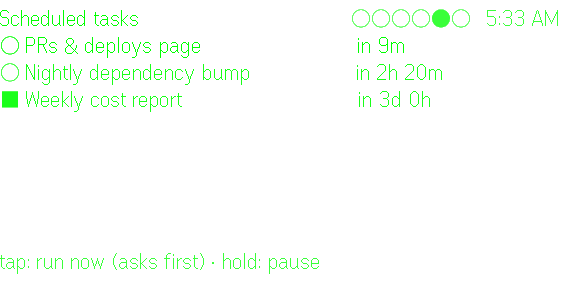
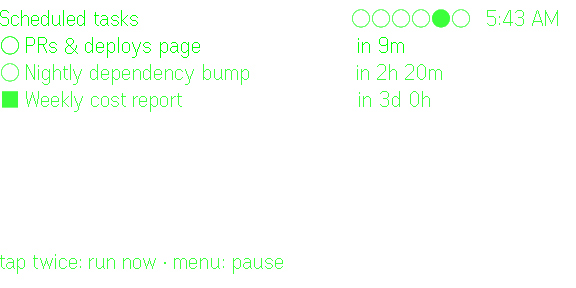
Review fixes: menu limits, safer gestures, lighter limit reads
- Menu labels cut to the firmware's 32 bytes and 10 items (a long page title rejected the whole page)
- Hold no longer denies approvals or pauses tasks: tap-then-hold opens the menu, so hold must not act.
  Allow, Deny, Pause and Resume are menu items; a first tap's arming expires after 6 seconds
- Alerts no longer swallow taps; the menu offers to open what an alert is about
- Limits are read from the config stream instead of asking the server to re-probe every provider
- Dashboard follows threads that are waiting on you, so approvals can be answered from it
- Stop following list threads when leaving the list; alerts cover unpinned threads too
- Unchosen lines dim when a page has a choice, so the highlight is visible
- SVG rendering failures no longer leave an unhandled rejection
- Docs: gestures table, voice cancel flow

diff --git a/src/glasses/controller.ts b/src/glasses/controller.ts
@@ -68,6 +68,24 @@ const MAX_TEXT_BOXES = 7
 /** Dropped first, if a page would have too many: the scrollbar, then the clock, then the dim layer. */
 const SHED_ORDER: Slot[] = ['thumb', 'bar', 'clock', 'prompt']
 const IMAGE_ID = 11
+
+const encoder = new TextEncoder()
+/** A menu label within the firmware's 32 UTF-8 bytes, cut on a character boundary. */
+export function menuLabel(name: string): string {
+  const clean = name.replace(/\s+/g, ' ').trim() || '·'
+  if (encoder.encode(clean).length <= 32) return clean
+  let out = ''
+  for (const char of clean) {
+    if (encoder.encode(`${out}${char}…`).length > 32) break
+    out += char
+  }
+  return `${out.trimEnd()}…`
+}
+/** How long a first tap stays armed, waiting for the second. */
+const ARM_MS = 6_000
+const MENU_ALLOW = 12
+const MENU_DENY = 13
+const MENU_OPEN_ALERT = 14
 const IMAGE_NAME = 'image'
 
 /** A picture on a page: a PNG for the glasses' image container. */
@@ -130,7 +148,15 @@ export class GlassesController {
   private pageCursor = 0
   /** A limit whose reset credit is waiting for a second tap to confirm. */
   /** Something waiting for a second tap to confirm: a reset credit, an approval, a task run. */
-  private armed: { kind: 'reset' | 'allow' | 'task'; key: string } | null = null
+  private armedState: { kind: 'reset' | 'allow' | 'task'; key: string; until: number } | null = null
+  /** A first tap waiting for the second, until it expires (so a stray tap minutes later cannot confirm it). */
+  private get armed(): { kind: 'reset' | 'allow' | 'task'; key: string } | null {
+    if (this.armedState && Date.now() > this.armedState.until) this.armedState = null
+    return this.armedState
+  }
+  private set armed(value: { kind: 'reset' | 'allow' | 'task'; key: string } | null) {
+    this.armedState = value ? { ...value, until: Date.now() + ARM_MS } : null
+  }
   /** The provider whose accounts the Usage page is listing; null is the overview. */
   private usageDriver: string | null = null
   private pageImage: { key: string; png: RenderedImage | null } | null = null
@@ -246,6 +272,11 @@ export class GlassesController {
   private draw(nextLayout: string, nextBoxes: Box[], menu?: Array<[number, string]>, image?: ImageSlot): Promise<void> {
     // Only the newest frame matters: a frame queued behind a slow BLE update is dropped rather than
     // painted late over a newer screen.
+    // The firmware takes at most 10 menu items of 32 bytes each, and rejects the whole page otherwise.
+    if (menu) {
+      const ids = new Set<number>()
+      menu = menu.filter(([id]) => (ids.has(id) ? false : (ids.add(id), true))).slice(0, 10).map(([id, name]) => [id, menuLabel(name)])
+    }
     // The menu and picture are only applied when the page is rebuilt, so a change to either is a new layout.
     const signature = `${nextLayout}|${menu ? menu.map(([id, name]) => `${id}=${name}`).join(',') : ''}|${image?.key ?? ''}`
     // Past the container limit the firmware rejects the whole page and keeps showing the old one, so
@@ -401,7 +432,7 @@ export class GlassesController {
       { slot: 'body', x: 0, y: rowY(1), w: width, h: rowsH(LIST_ROWS), text: dim, brightness: 1 },
       { slot: 'selected', x: 0, y: rowY(1), w: width, h: rowsH(LIST_ROWS), text: bright, brightness: BRIGHT },
       ...(bar.thumb ? this.barBoxes(bar, rowY(1), rowsH(LIST_ROWS)) : []),
-    ], [...this.pageMenu(), [MENU_JUMP_TOP, 'Jump to top'], [MENU_NEW_PAGE, 'New page by voice']])
+    ], [...this.alertMenu(), ...this.pageMenu(), [MENU_JUMP_TOP, 'Jump to top'], [MENU_NEW_PAGE, 'New page by voice']])
   }
 
   // --- pages -------------------------------------------------------------------------------
@@ -448,8 +479,14 @@ export class GlassesController {
     return this.pages.slice(0, 6).map((page, i) => [MENU_PAGE + i, `${page === this.page ? '● ' : ''}${this.pageLabel(page)}`])
   }
 
+  /** Stops following the threads a list or the dashboard was showing; the next page says what it needs. */
+  private unwatchAll() {
+    for (const m of this.fleet.state.machines) this.fleet.machine(m.id)?.watch([], { activity: false, reply: false })
+  }
+
   private switchPage(page: Page) {
     if (!this.pages.includes(page)) return
+    this.unwatchAll()
     this.page = page
     this.cursorKey = 'new'
     this.listTop = 0
@@ -507,7 +544,8 @@ export class GlassesController {
     const hasDim = !foldDim && lines.some(l => l.dim)
     return this.draw(`page:${kind}:${bar.thumb ? 'bar' : 'nobar'}:${choosable ? 'sel' : 'view'}:${hasDim ? 'dim' : 'flat'}:${head.key}`, [
       ...head.boxes,
-      { slot: 'body', x: 0, y: rowY(1), w: width, h: rowsH(PAGE_ROWS), text: layer(l => !chosen(l) && (foldDim || !l.dim)), brightness: MID },
+      // With a choice on the page, everything else steps down so the highlighted line stands out.
+      { slot: 'body', x: 0, y: rowY(1), w: width, h: rowsH(PAGE_ROWS), text: layer(l => !chosen(l) && (foldDim || !l.dim)), brightness: choosable ? DIM : MID },
       ...(hasDim ? [{ slot: 'prompt' as const, x: 0, y: rowY(1), w: width, h: rowsH(PAGE_ROWS), text: layer(l => !chosen(l) && Boolean(l.dim)), brightness: 1 }] : []),
       ...(choosable ? [{ slot: 'selected' as const, x: 0, y: rowY(1), w: width, h: rowsH(PAGE_ROWS), text: layer(chosen), brightness: BRIGHT }] : []),
       ...(bar.thumb ? this.barBoxes(bar, rowY(1), rowsH(PAGE_ROWS)) : []),
@@ -562,12 +600,13 @@ export class GlassesController {
     const asking = selected ? input.threads.find(t => askKey(t) === selected) : undefined
     const request = asking ? input.request(asking) : null
     const status = this.armed?.kind === 'allow' && asking
-      ? { text: `tap again: allow · hold: deny · swipe: cancel`, brightness: BRIGHT }
+      ? { text: `tap again to allow · swipe: cancel · menu: deny`, brightness: BRIGHT }
       : this.notice ? this.pageNotice('')
-      : asking ? this.pageNotice(request?.kind === 'approval' ? 'tap: allow (asks first) · hold: deny' : 'tap: open and answer')
+      : asking ? this.pageNotice(request?.kind === 'approval' ? 'tap twice: allow · menu: deny' : 'tap: open and answer')
       : this.pageNotice('tap+hold: pages')
     // The summary ("★ 2 need you ▶ 1 running") is the header; the page needs no title.
-    return this.drawPage('dashboard', summary.text, lines, selected, status, [...this.pageMenu(), [MENU_REFRESH, 'Refresh']])
+    const actions: Array<[number, string]> = request?.kind === 'approval' ? [[MENU_ALLOW, 'Allow'], [MENU_DENY, 'Deny']] : []
+    return this.drawPage('dashboard', summary.text, lines, selected, status, [...this.alertMenu(), ...actions, ...this.pageMenu(), [MENU_REFRESH, 'Refresh']])
   }
 
   /** The thread on the dashboard's highlighted line, with what it is waiting on. */
@@ -590,12 +629,12 @@ export class GlassesController {
     await this.answerApproval(thread, request, machine, 'allow')
   }
 
-  /** Hold on an approval denies it, straight away: denying is always safe. */
-  private async holdDashboard() {
+  /** Allow or deny from the menu: an explicit choice, so no second tap. */
+  private async decideDashboard(which: 'allow' | 'deny') {
     const asked = this.askedThread()
     if (!asked || asked.request?.kind !== 'approval') return
     this.armed = null
-    await this.answerApproval(asked.thread, asked.request, asked.machine, 'deny')
+    await this.answerApproval(asked.thread, asked.request, asked.machine, which)
   }
 
   private async answerApproval(thread: PinnedThread, request: Extract<PendingRequest, { kind: 'approval' }>, machine: Machine | undefined, which: 'allow' | 'deny') {
@@ -622,7 +661,7 @@ export class GlassesController {
       : this.notice ? this.pageNotice('')
       : this.usageDriver ? this.pageNotice(account?.credits ? 'tap: use a reset credit · double tap: back' : 'swipe: accounts · double tap: back')
       : this.pageNotice(selected ? 'tap: see each account · swipe: next provider' : 'tap+hold: pages')
-    const menu: Array<[number, string]> = [...this.pageMenu(), [MENU_REFRESH, 'Refresh'], ...(this.usageDriver ? [[MENU_BACK, 'Back to overview'] as [number, string]] : [])]
+    const menu: Array<[number, string]> = [...this.alertMenu(), ...this.pageMenu(), [MENU_REFRESH, 'Refresh'], ...(this.usageDriver ? [[MENU_BACK, 'Back to overview'] as [number, string]] : [])]
     const title = this.usageDriver ? `${families(usageAccounts(machines)).find(f => f.driver === this.usageDriver)?.provider ?? 'Usage'} accounts` : 'Usage'
     return this.drawPage(`usage:${this.usageDriver ?? ''}`, title, lines, selected, status, menu)
   }
@@ -681,11 +720,12 @@ export class GlassesController {
     const status = this.armed?.kind === 'task' && chosen
       ? { text: `tap again: run "${chosen.task.title}" now · swipe: cancel`, brightness: BRIGHT }
       : this.notice ? this.pageNotice('')
-      : chosen ? this.pageNotice(chosen.task.enabled ? 'tap: run now (asks first) · hold: pause' : 'hold: resume')
+      : chosen ? this.pageNotice(chosen.task.enabled ? 'tap twice: run now · menu: pause' : 'paused · menu: resume')
       : this.pageNotice('tap+hold: pages')
     const menu: Array<[number, string]> = [
-      ...this.pageMenu(),
+      ...this.alertMenu(),
       ...(chosen ? [[MENU_TASK_RUN, 'Run now'], [MENU_TASK_PAUSE, chosen.task.enabled ? 'Pause' : 'Resume']] as Array<[number, string]> : []),
+      ...this.pageMenu(),
       [MENU_REFRESH, 'Refresh'],
     ]
     return this.drawPage('tasks', 'Scheduled tasks', lines, selected, status, menu)
@@ -694,7 +734,7 @@ export class GlassesController {
   private async tapTasks() {
     const chosen = this.selectedTask()
     if (!chosen) return
-    if (!chosen.task.enabled) return this.showNotice('Paused. Hold to resume it.', 3000)
+    if (!chosen.task.enabled) return this.showNotice('Paused. Resume it from the menu.', 3000)
     if (this.armed?.kind !== 'task' || this.armed.key !== chosen.key) { this.armed = { kind: 'task', key: chosen.key }; return void this.renderTasks() }
     this.armed = null
     await this.runSelectedTask()
@@ -759,7 +799,7 @@ export class GlassesController {
       : this.pageNotice([updated, 'hold: change this page'].filter(Boolean).join('   ·   '))
     const title = meta.title || thread?.title || 'Page'
     const slot: ImageSlot | undefined = image ? { key: image.key, x: FULL_W - BAR_W - 4 - image.w, y: rowY(1), w: image.w, h: image.h, png: image.png } : undefined
-    return this.drawPage(`tpage:${page}`, title, lines, null, status, [...this.pageMenu(), ...this.voiceMenu(), [MENU_PAGE_REFRESH, 'Update this page'], [MENU_NEW_PAGE, 'New page by voice']], slot)
+    return this.drawPage(`tpage:${page}`, title, lines, null, status, [...this.voiceMenu(), ...this.alertMenu(), [MENU_PAGE_REFRESH, 'Update this page'], ...this.pageMenu(), [MENU_NEW_PAGE, 'New page by voice']], slot)
   }
 
   /** The picture for a page's SVG: drawn once per distinct SVG, shown when ready. */
@@ -767,7 +807,8 @@ export class GlassesController {
     const key = hashText(svg)
     if (this.pageImage?.key === key) return this.pageImage.png ? { key, ...this.pageImage.png } : null
     this.pageImage = { key, png: null }
-    void renderSvgPng(svg).then(rendered => {
+    // A WebView that will not draw the SVG (or read the canvas back) just shows no picture.
+    void renderSvgPng(svg).catch(() => null).then(rendered => {
       if (this.pageImage?.key !== key) return
       this.pageImage = { key, png: rendered }
       if (rendered) this.scheduleRender()
@@ -843,6 +884,7 @@ export class GlassesController {
   private async open(thread: PinnedThread) {
     this.closeThreadStream()
     this.closePageStream()
+    this.unwatchAll()
     const machine = this.machineOf(thread)
     if (!machine) return
     this.current = thread
@@ -939,7 +981,7 @@ export class GlassesController {
       { slot: 'body', x: 0, y: rowY(1), w: TEXT_W, h: rowsH(rows), text: loading ? 'Loading…' : bottomAnchor(view.lines, rows) || 'No messages yet.', brightness: MID },
       ...this.barBoxes(bar, rowY(1), rowsH(rows)),
       { slot: 'status', x: 0, y: rowY(1 + rows), w: FULL_W, h: rowsH(1), text: fitWidth(status.text, FULL_W - 4), brightness: status.brightness },
-    ], [...this.voiceMenu(), ...this.quickMenu()])
+    ], [...this.voiceMenu(), ...this.alertMenu(), ...this.quickMenu()])
   }
 
   // --- answering ---------------------------------------------------------------------------
@@ -1141,7 +1183,7 @@ export class GlassesController {
     // Threads behind pages are not pinned or listed, so look them up by id.
     const pageThreads = state.settings.threadPages.flatMap(p => { const t = this.fleet.machine(p.machineId)?.thread(p.threadId); return t ? [t] : [] })
     const pageKeys = new Set(pageThreads.map(keyOf))
-    const next = snapshotOf([...state.threads, ...pageThreads], pageKeys)
+    const next = snapshotOf([...state.threads, ...state.others, ...pageThreads], pageKeys)
     const changes = threadAlerts(this.lastSnap, next, alerts).filter(a => !this.isWatching(a))
     this.lastSnap = next
 
@@ -1167,6 +1209,12 @@ export class GlassesController {
       if (thread) void this.open(thread)
     }
     return true
+  }
+
+  /** While an alert shows, the menu offers to open what it is about. */
+  private alertMenu(): Array<[number, string]> {
+    const alert = this.activeAlert()
+    return alert?.action ? [[MENU_OPEN_ALERT, alert.action === 'usage' ? 'Open Usage' : `Open: ${alert.text.replace(/^\S+\s/, '')}`]] : []
   }
 
   /** Canned replies in the thread menu: one tap sends the words. */
@@ -1372,6 +1420,10 @@ export class GlassesController {
         void this.toggleSelectedTask()
       } else if (item === MENU_PAGE_REFRESH) {
         void this.refreshThreadPage()
+      } else if (item === MENU_OPEN_ALERT) {
+        this.followAlert()
+      } else if (item === MENU_ALLOW || item === MENU_DENY) {
+        void this.decideDashboard(item === MENU_ALLOW ? 'allow' : 'deny')
       } else if (item === MENU_REFRESH) {
         for (const m of this.fleet.state.machines) this.fleet.machine(m.id)?.refreshInsights(true)
       } else if (item === MENU_NEW_PAGE) {
@@ -1420,8 +1472,6 @@ export class GlassesController {
       if (this.latched && !this.recorder.paused) return // hands-free: the touchpad is not held
       this.latched = false // holding to continue a paused hands-free recording goes back to push-to-talk
       if (this.screen === 'list' && this.page && isThreadPage(this.page)) void this.startRecording()
-      else if (this.screen === 'list' && this.page === 'dashboard') void this.holdDashboard()
-      else if (this.screen === 'list' && this.page === 'tasks') void this.toggleSelectedTask()
       else if (this.screen === 'list') { if (this.page === 'pinned' || this.page === 'chats') this.jumpToTop() }
       else void this.startRecording()
       return
@@ -1446,7 +1496,6 @@ export class GlassesController {
 
     if (any(T.CLICK_EVENT)) {
       if (this.screen === 'status' && this.fleet.state.phase === 'unpaired') { void this.fleet.startDemo(); return }
-      if (this.screen === 'list' && this.followAlert()) return
       if (this.screen === 'list' && this.page === 'usage') void this.tapUsage()
       else if (this.screen === 'list' && this.page === 'dashboard') void this.tapDashboard()
       else if (this.screen === 'list' && this.page === 'tasks') void this.tapTasks()

diff --git a/src/t3/insights.ts b/src/t3/insights.ts
@@ -64,35 +64,43 @@ export const isMissing = (value: unknown): value is Missing => Boolean(value && 
 // --- reading --------------------------------------------------------------------------------
 
 /**
- * The accounts behind a usage-limit source (a proxy holding several subscriptions). The server
- * announces them on its config stream, so listen until the first announcement, then hang up.
+ * Every account's limits, from the server's config stream: its first item is the configuration (with
+ * each signed-in provider's limits), and a usage-limit source (a proxy holding several subscriptions)
+ * announces its accounts right after. This reads what the server already knows, without asking it to
+ * probe every provider again, then hangs up.
  */
-export function readSources(net: Net, session: Session, timeoutMs = 12_000): Promise<RawSource[]> {
-  return new Promise(resolve => {
+export function readLimits(net: Net, session: Session, machineId: string, timeoutMs = 15_000, sourceGraceMs = 4_000): Promise<LimitAccount[]> {
+  return new Promise((resolve, reject) => {
+    let providers: Parameters<typeof providerAccounts>[0] | null = null
+    let sources: RawSource[] | null = null
     let done = false
-    const finish = (sources: RawSource[]) => {
+    let grace: ReturnType<typeof setTimeout> | undefined
+    const finish = () => {
       if (done) return
       done = true
       clearTimeout(timer)
+      clearTimeout(grace)
       handle.close()
-      resolve(sources)
+      if (!providers && !sources) return reject(new Error('The server did not report its limits.'))
+      resolve(mergeAccounts(providerAccounts(providers ?? [], machineId), sourceAccounts(sources ?? [], machineId)))
     }
-    const handle = openStream<{ type?: string; payload?: { sources?: RawSource[] } }>({
+    const handle = openStream<{ type?: string; config?: { providers?: Parameters<typeof providerAccounts>[0] }; payload?: { sources?: RawSource[] } }>({
       net, session, tag: 'subscribeServerConfig',
       payload: () => ({ usageLimitSources: true, workspaceSnapshotsOnDemand: true }),
-      onItem: item => { if (item.type === 'usageLimitSourcesUpdated') finish(item.payload?.sources ?? []) },
+      onItem: item => {
+        if (item.type === 'snapshot') {
+          providers = item.config?.providers ?? []
+          // A server with no limit source sends nothing more; give one a moment, then stop waiting.
+          if (sources) finish()
+          else grace = setTimeout(finish, sourceGraceMs)
+        } else if (item.type === 'usageLimitSourcesUpdated') {
+          sources = item.payload?.sources ?? []
+          if (providers) finish()
+        }
+      },
     })
-    const timer = setTimeout(() => finish([]), timeoutMs)
+    const timer = setTimeout(finish, timeoutMs)
   })
-}
-
-/** Every account's limits. A source that cannot be reached just contributes nothing. */
-export async function readLimits(net: Net, session: Session, machineId: string): Promise<LimitAccount[]> {
-  const [providers, sources] = await Promise.all([
-    rpc<{ providers: Parameters<typeof providerAccounts>[0] }>(net, session, 'server.refreshProviders', { workspaceSnapshotsOnDemand: true }),
-    readSources(net, session).catch(() => [] as RawSource[]),
-  ])
-  return mergeAccounts(providerAccounts(providers.providers ?? [], machineId), sourceAccounts(sources, machineId))
 }
 
 interface RawBucket {

diff --git a/src/phone/tabs/AlertsTab.tsx b/src/phone/tabs/AlertsTab.tsx
@@ -9,7 +9,7 @@ export function AlertsTab({ fleet, state }: { fleet: Fleet; state: FleetState })
   const set = (patch: Partial<AlertSettings>) => void fleet.updateSettings({ alerts: { ...a, ...patch } })
   return (
     <>
-      <Section label="Tell me on the glasses when" note="A message replaces the top row for a few seconds. Tap it to open the thread, or the Usage page for limits.">
+      <Section label="Tell me on the glasses when" note="A message replaces the top row for a few seconds. While it shows, tap then hold opens the menu with a way to open the thread (or the Usage page, for limits).">
         <ToggleRow label="A thread needs me" hint="It asks a question or wants an approval." checked={a.needsYou} onChange={needsYou => set({ needsYou })} />
         <ToggleRow label="A thread finishes" checked={a.finished} onChange={finished => set({ finished })} />
         <ToggleRow label="A thread fails" checked={a.failed} onChange={failed => set({ failed })} />

diff --git a/src/phone/tabs/PagesTab.tsx b/src/phone/tabs/PagesTab.tsx
@@ -30,7 +30,7 @@ export function PagesTab({ fleet, state, onToast }: { fleet: Fleet; state: Fleet
         <Row label="Open on">
           <Select value={s.startPage} options={s.pages.map(p => ({ value: p, label: label(p) }))} onValueChange={startPage => void fleet.updateSettings({ startPage: startPage as Page })} />
         </Row>
-        <ToggleRow label="Answer from the dashboard" hint="Allow or deny an agent's approval right from the dashboard's “needs you” lines." checked={s.dashboardActions} onChange={dashboardActions => void fleet.updateSettings({ dashboardActions })} />
+        <ToggleRow label="Answer from the dashboard" hint="Swipe to a “needs you” line on the dashboard: tap twice to allow an approval, or pick Allow or Deny in the menu." checked={s.dashboardActions} onChange={dashboardActions => void fleet.updateSettings({ dashboardActions })} />
       </Section>
 
       {s.threadPages.length > 0 && (

diff --git a/src/glasses/menu.test.ts b/src/glasses/menu.test.ts
@@ -1,0 +1,14 @@
+import { describe, expect, it } from 'vitest'
+import { menuLabel } from './controller'
+
+describe('menu labels', () => {
+  it('fit the firmware’s 32 bytes, cut on a character boundary', () => {
+    expect(menuLabel('Jump to top')).toBe('Jump to top')
+    const long = menuLabel('Open: Migrate billing to the v2 API and update every caller')
+    expect(new TextEncoder().encode(long).length).toBeLessThanOrEqual(32)
+    expect(long.endsWith('…')).toBe(true)
+    const wide = menuLabel('● ★ ▶ ■ □ ○ ● ★ ▶ ■ □ ○ ● ★ ▶')
+    expect(new TextEncoder().encode(wide).length).toBeLessThanOrEqual(32)
+    expect(menuLabel('   ')).toBe('·')
+  })
+})

diff --git a/src/t3/machine.ts b/src/t3/machine.ts
@@ -159,7 +159,8 @@ export class Machine {
       let w = this.watched.get(t.id)
       if (!w) this.watched.set(t.id, w = { live: null, fetchedFor: '', stream: null })
       const entry = w
-      if (wants.activity && isBusy(t.status)) {
+      // Working or waiting on you: follow it live, so the step and the open request stay current.
+      if (wants.activity && (isBusy(t.status) || t.needsInput)) {
         entry.stream ??= this.openThread(t.id, live => { entry.live = live; this.onChange() })
       } else {
         entry.stream?.close()

diff --git a/README.md b/README.md
@@ -20,10 +20,10 @@ The glasses have pages. Tap, then hold, to open the menu and switch; double tap 
 - **Chats**: every other open thread, newest first.
 - **Dashboard**: what needs you (tap to open it), what is running and what each is doing, each machine's CPU and memory, today's spend, the busiest usage limit and the next scheduled run.
 - **Usage**: every provider's limits, pooled across all its accounts. With a usage-limit source (a proxy holding several Claude and Codex subscriptions) it shows, per provider, how many accounts are free, which account frees up first, and what is left in each window (session, weekly, per model) as a meter. Tap a provider to list its accounts with each window's use and time to reset: free ones first, then blocked ones by when they come back. Tap an account that has a reset credit, then tap again, to spend it. Below that: spend and tokens for today and the last 7 days, and the most expensive models. Accounts reported by several machines are counted once.
-- **Scheduled tasks**: your T3 scheduled tasks and when each runs next; tap twice to run one now, hold to pause or resume it (or use the menu).
+- **Scheduled tasks**: your T3 scheduled tasks and when each runs next; tap twice to run one now; pause or resume it from the menu.
 - **Your own pages**: a page is a thread whose latest reply is the page. Say what you want ("my open PRs and CI") with **New page by voice** in the menu, or on the phone, and a thread builds it and keeps it current: on a timer, when something happens (a webhook it sets up), or only when you ask (**Update this page** in the menu). Hold to talk on the page to change it. If the reply includes a small inline `<svg>` (light strokes on a transparent background), the glasses draw it as a picture beside the text.
-- **Alerts**: a short message replaces the top row for a few seconds when a thread needs you, finishes or fails, when a page of yours is rewritten, or when a usage pool passes the percentage you set. Tap it to open the thread (or the Usage page). A header note appears once today's spend reaches your daily budget. All of it is optional.
-- **Answer from the dashboard**: the dashboard's "needs you" lines say what each thread is waiting on. Tap an approval twice to allow it, hold to deny. A question opens its thread.
+- **Alerts**: a short message replaces the top row for a few seconds when a thread needs you, finishes or fails, when a page of yours is rewritten, or when a usage pool passes the percentage you set. While it shows, the menu (tap, then hold) has an item to open the thread (or the Usage page). A header note appears once today's spend reaches your daily budget. All of it is optional.
+- **Answer from the dashboard**: the dashboard's "needs you" lines say what each thread is waiting on. Tap an approval twice to allow it, or pick Allow or Deny in the menu. A question opens its thread.
 - **Quick replies**: in a thread, tap then hold opens the menu with canned replies ("Continue", "Ship it", …) that you set on the phone; one pick sends it.
 
 - **List**: your pinned threads (not settled or snoozed), ten at a time, loading the next ten as you reach the end, each with a status mark (threads waiting on you first, then ones with a new reply), and a right-hand column: `▶ 3:12` running with its timer, `★` waiting for you, `●` new reply, `○` done, `■` failed. `+ New thread` is always first.
@@ -31,15 +31,15 @@ The glasses have pages. Tap, then hold, to open the menu and switch; double tap 
 - **Scrolling** follows new output. Swipe up to read back; it stops following and shows `▼ 3 new · tap for latest`. Tap, or swipe back to the bottom, to resume.
 - **Questions and approvals**: when an agent asks something, the live line says `★ a question for you · tap to answer`. Tap to answer one question at a time: swipe to an option, tap to pick (or tick, for multi-select), or hold to say your answer. Approvals (run a command, change files) work the same way with the agent's own options.
 - **Messages from other agents** show as a single line: `▷ sending thread: message`.
-- **Voice**: hold the touchpad, speak, release to send. The message steers the running turn if there is one. Empty, too-short or silent recordings are never sent. After you release there are three seconds to change your mind: the bottom line counts down, and a double tap cancels the send. Tap, then hold, opens the glasses menu: **Record hands-free** keeps recording after you let go (tap sends, double tap pauses). A double tap mid-recording (for example to dismiss a notification) pauses it: hold to continue, tap to send, swipe to discard.
+- **Voice**: hold the touchpad, speak, release to send. The message steers the running turn if there is one. Empty, too-short or silent recordings are never sent. After you release there is a short wait (3 seconds by default, set on the phone, or none): the bottom line counts down, a swipe sends straight away, and **Cancel voice send** in the menu cancels it. Tap, then hold, opens the glasses menu: **Record hands-free** keeps recording after you let go (tap sends, double tap pauses). A double tap mid-recording (for example to dismiss a notification) pauses it: hold to continue, tap to send, swipe to discard.
 
-| Gesture | List | Thread | Usage | Your pages |
-|---|---|---|---|---|
-| Swipe | move | scroll history | pick a limit | scroll |
-| Tap | open | answer a question, or jump to latest | twice: use a reset credit | |
-| Hold, release | jump to top | record, send | | record a change, send |
-| Tap, then hold | menu: pages, new page | menu: hands-free, cancel send | menu: pages, refresh | menu: pages, hands-free |
-| Double tap | first page, then exit | back | first page | first page |
+| Gesture | List | Thread | Dashboard | Usage | Tasks | Your pages |
+|---|---|---|---|---|---|---|
+| Swipe | move | scroll history | pick a "needs you" line | pick a provider or account | pick a task | scroll |
+| Tap | open | answer a question, or jump to latest | twice: allow; a question opens | open a provider; twice on an account: use a reset credit | twice: run now | |
+| Hold, release | jump to top | record, send | | | | record a change, send |
+| Tap, then hold (menu) | pages, new page | hands-free, cancel send, quick replies | allow, deny, pages | pages, refresh, back | pause or resume, pages | update now, hands-free, pages |
+| Double tap | first page, then exit | back | first page | back to overview, then first page | first page | first page |
 
 ## On the phone
 
